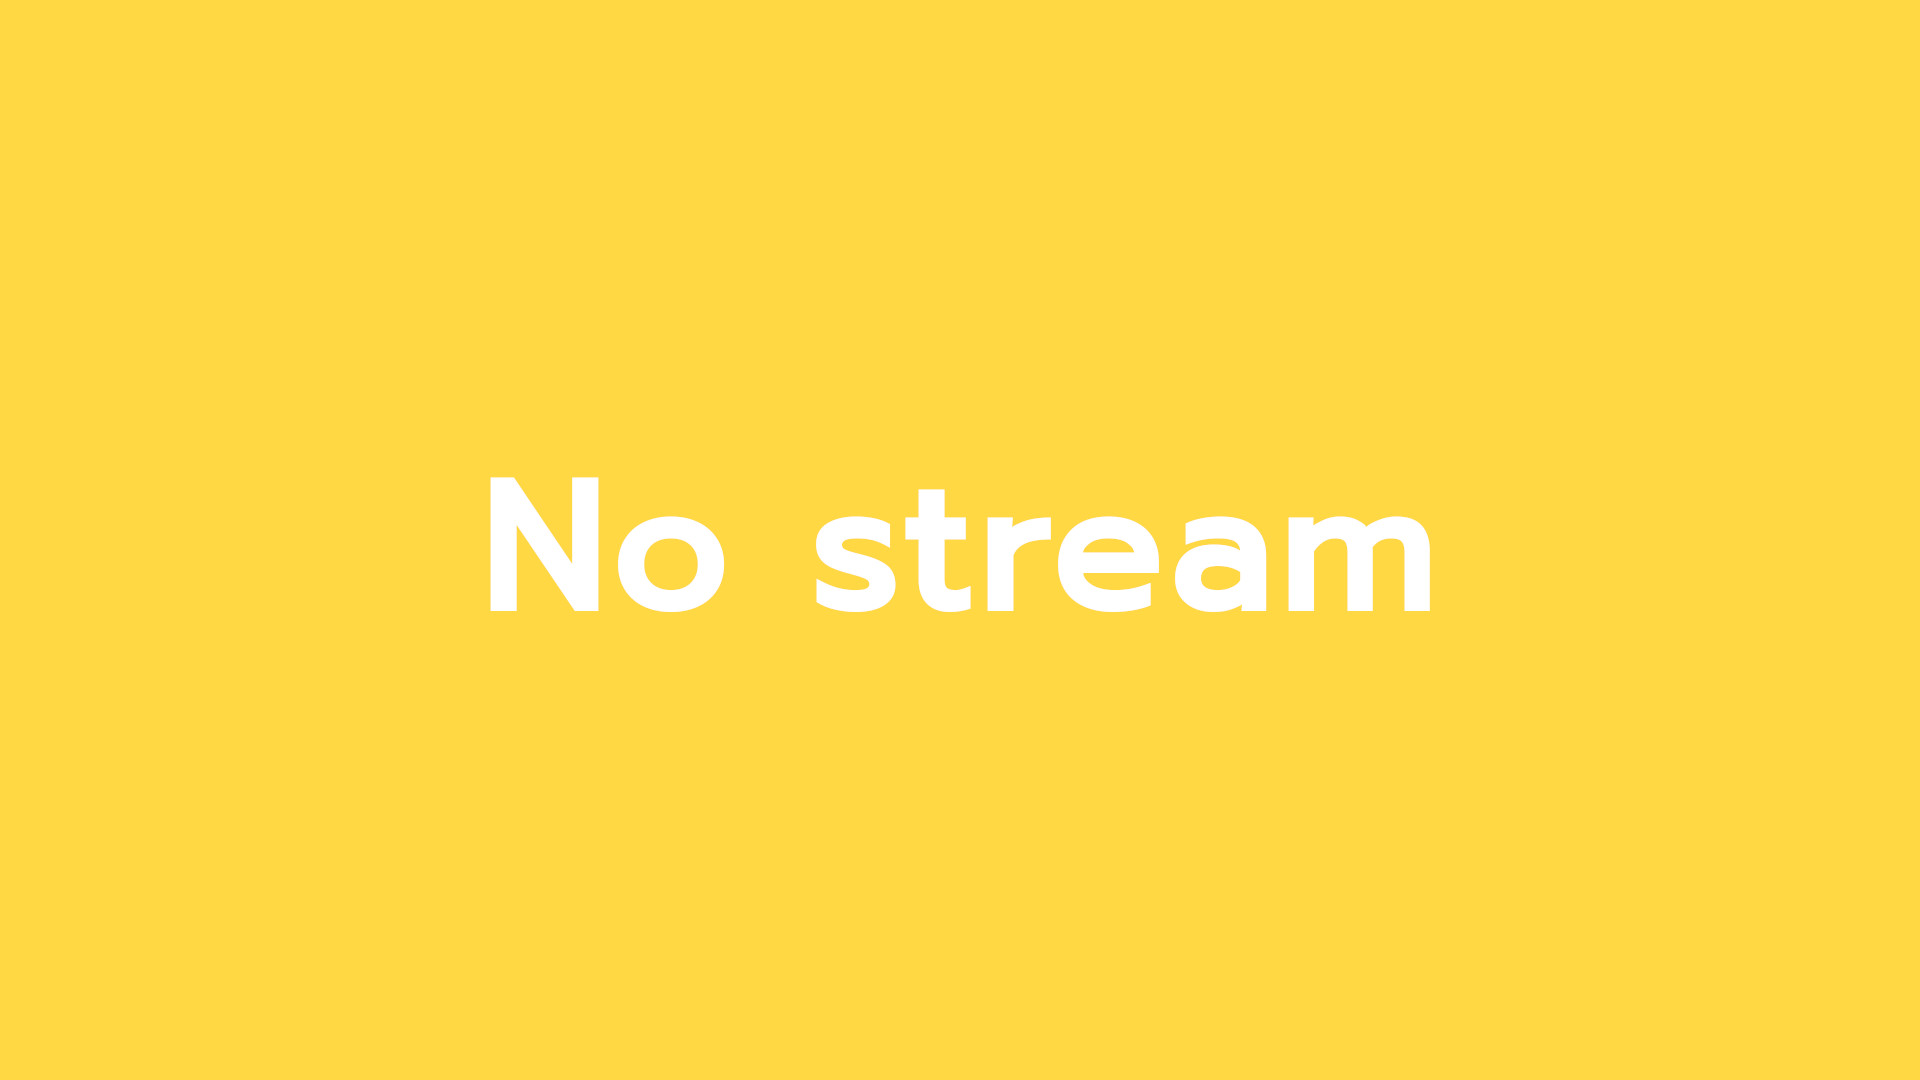
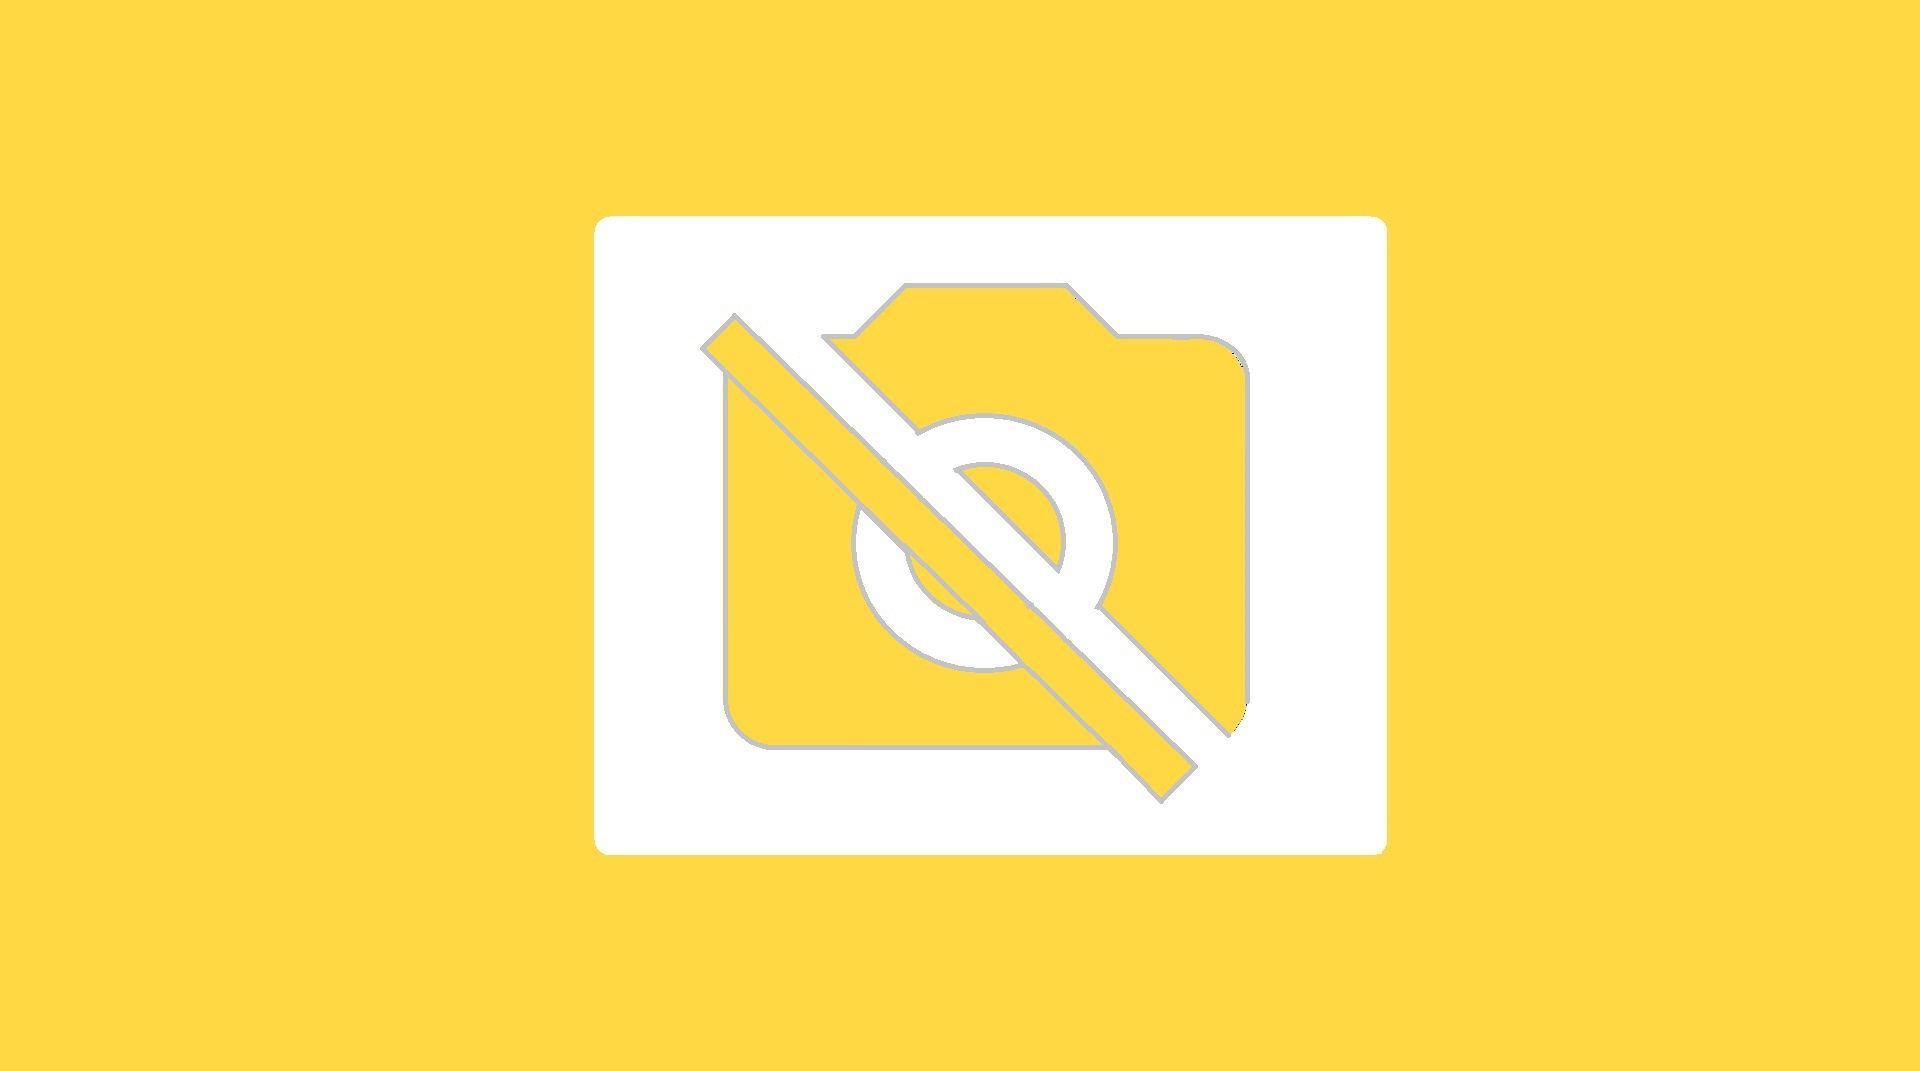
more tweaks for handling slow/intermittent streams

Changed region(s): [[0.25, 0.1849, 0.75, 0.8011]]

diff --git a/photon-client/src/plugins/WebsocketVideoStream.js b/photon-client/src/plugins/WebsocketVideoStream.js
@@ -21,10 +21,11 @@ export class WebsocketVideoStream{
     animationLoop(){
         var now = window.performance.now();
 
-        if((now - this.imgDataTime) > 500 ){
+        if((now - this.imgDataTime) > 2500 && this.imgData != null){
             //Handle websocket send timeouts by restarting?
             this.stopStream();
             this.startStream();
+            this.image.setAttribute('src', require("../assets/noStream.jpg"));
         } else {
             if(this.streamPort == null || this.imgData == null || this.noStream){
                 this.image.setAttribute('src', require("../assets/noStream.jpg"));
